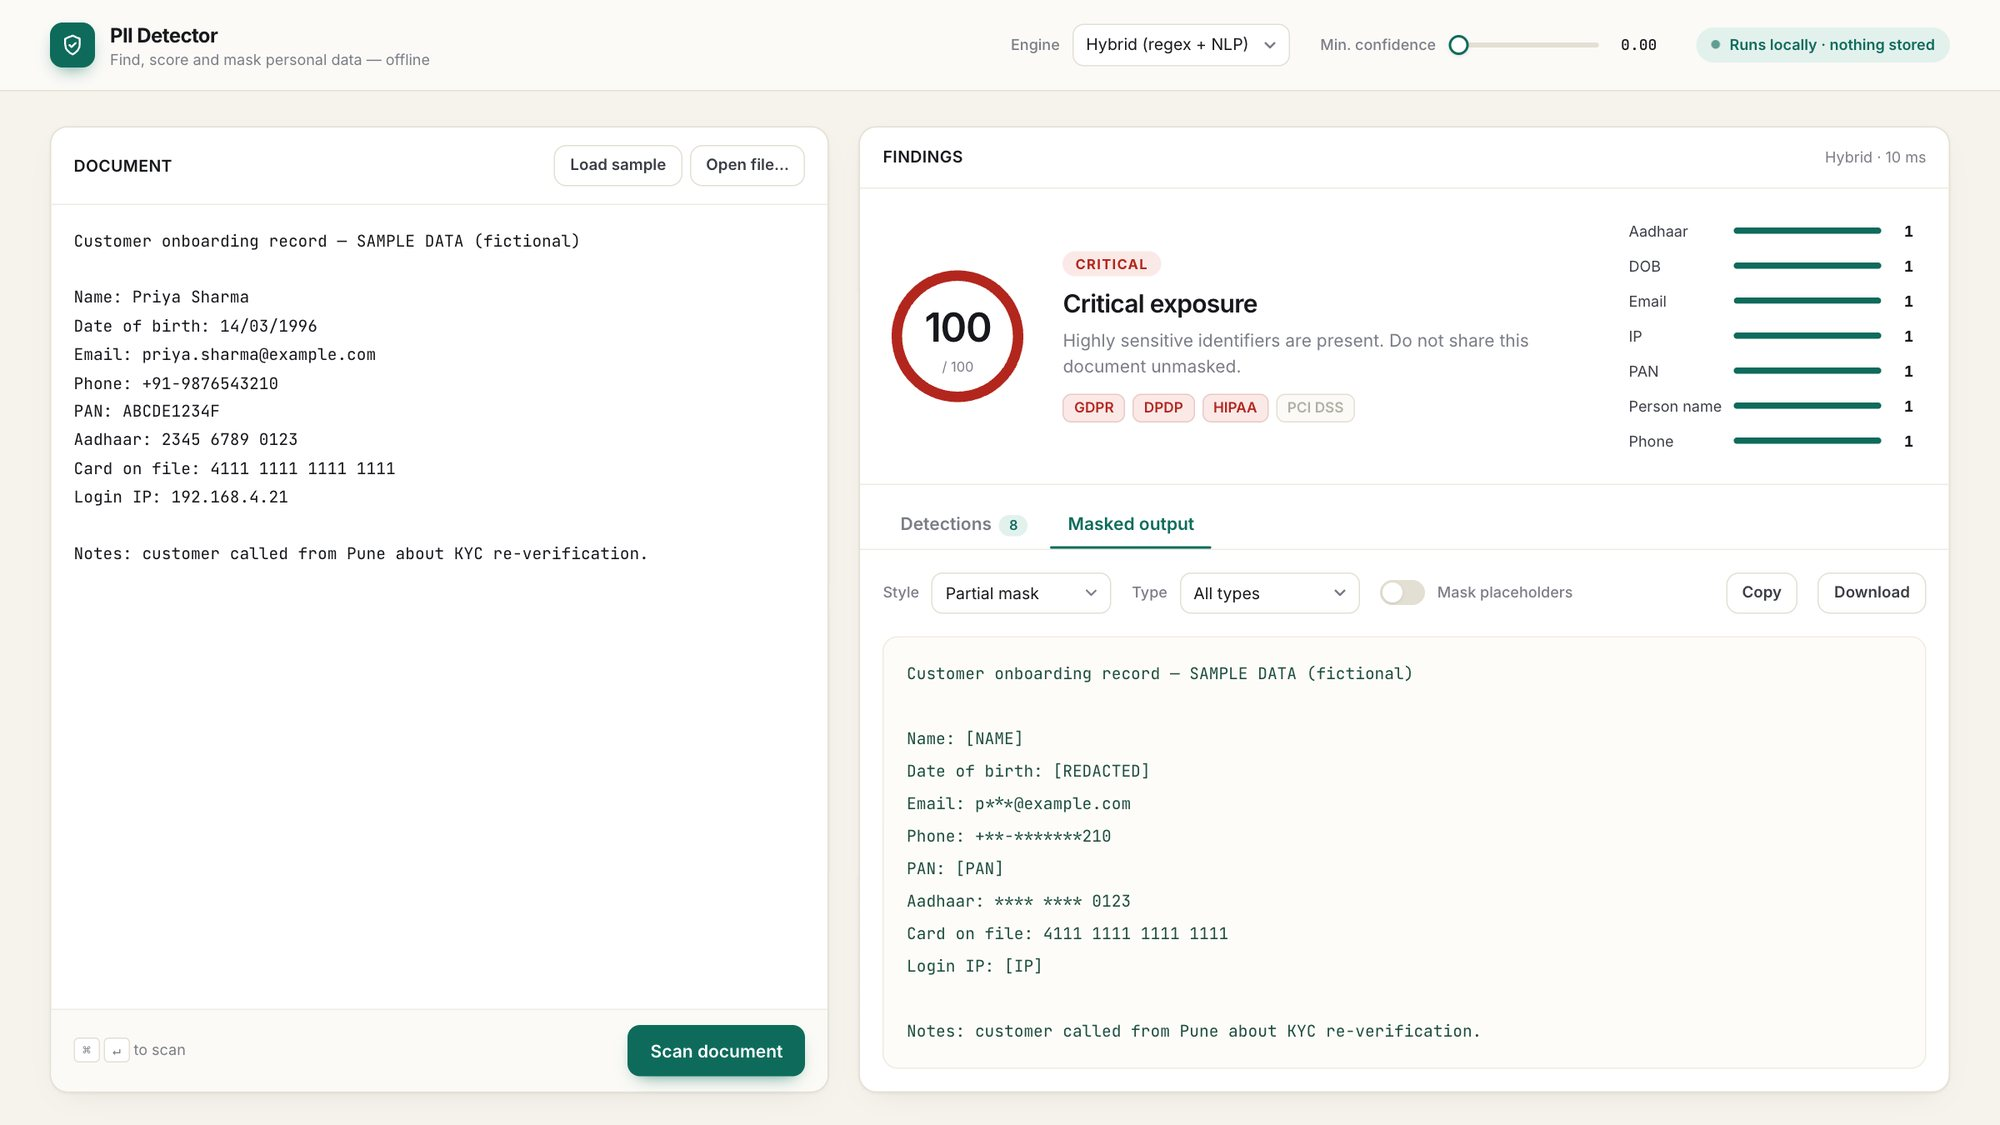
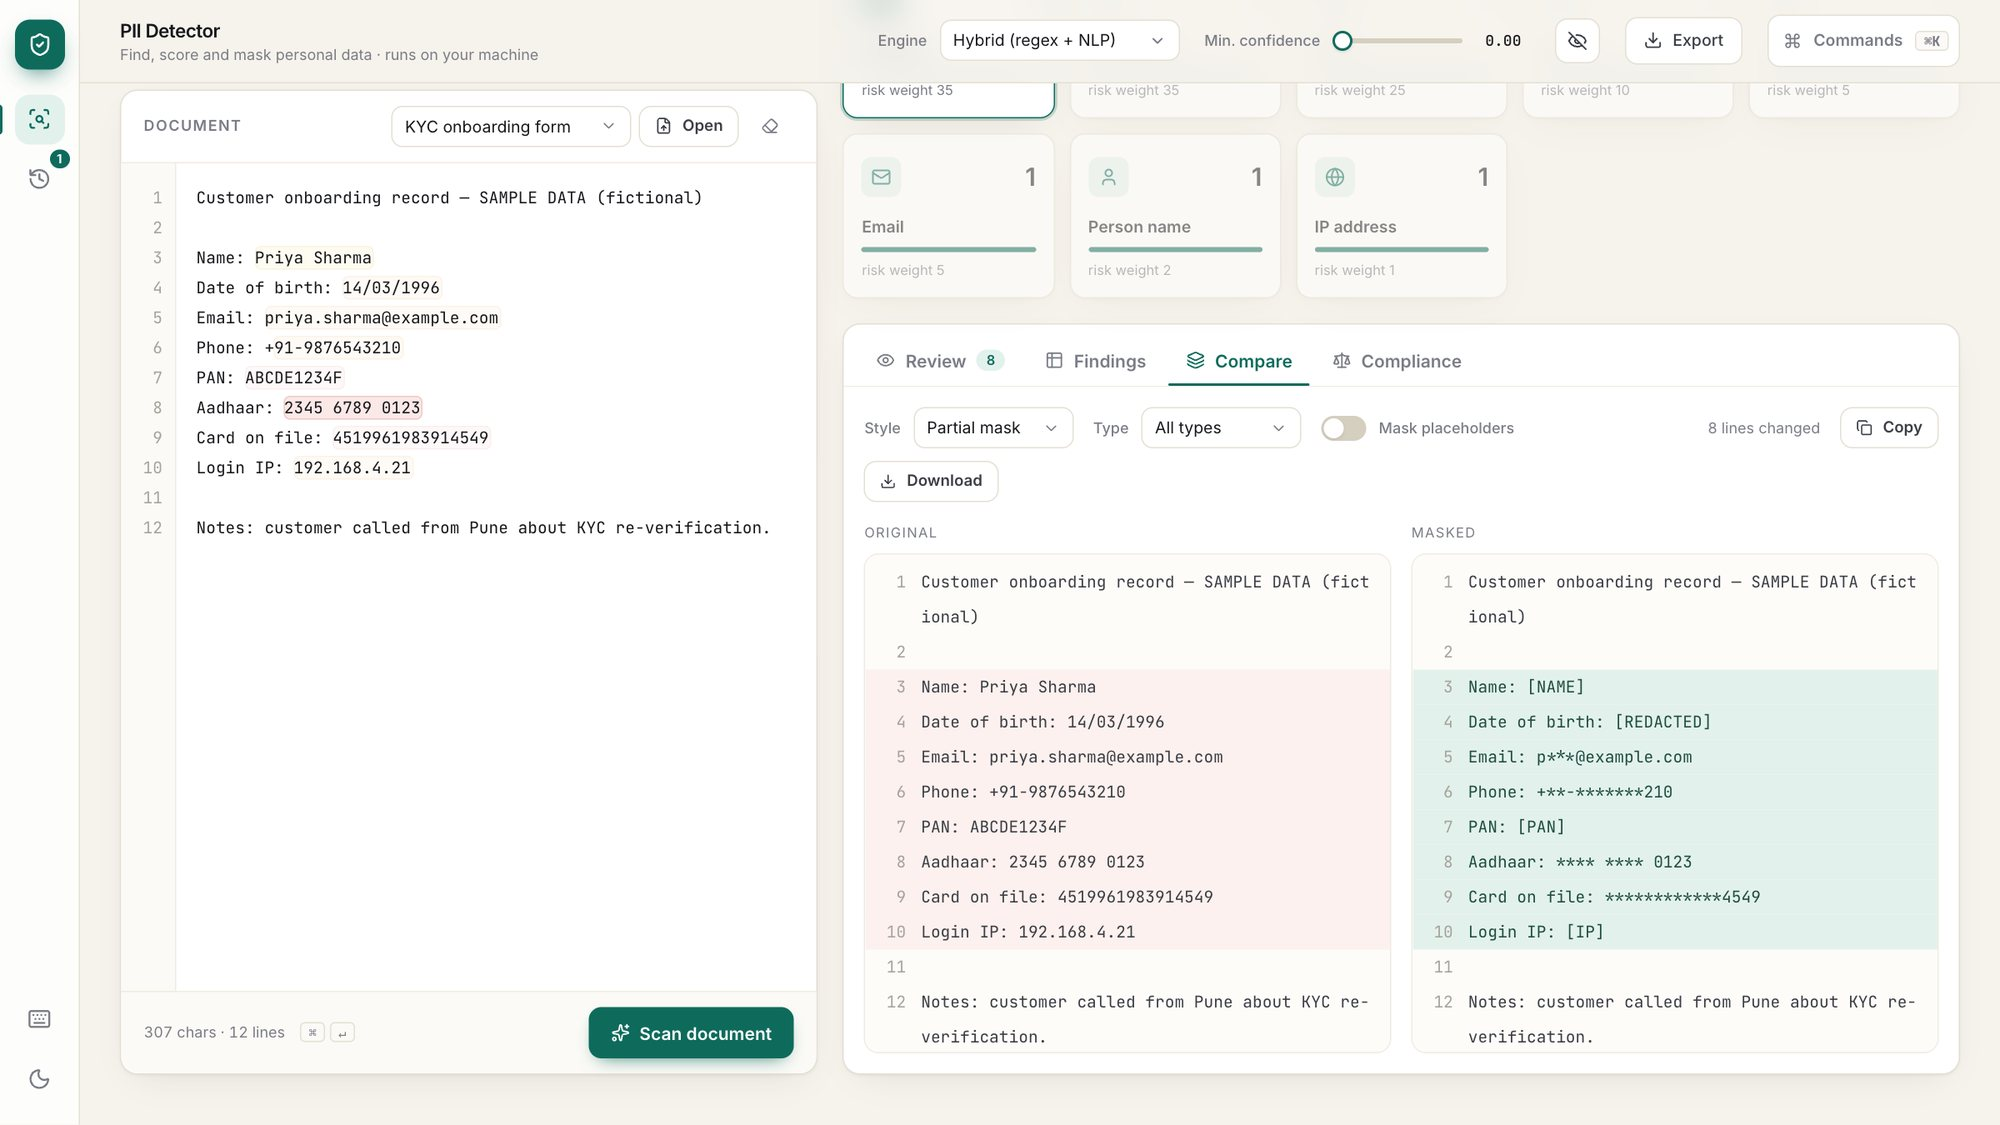
PII Detector case study: new workspace UI, card-detection fix

diff --git a/js/data.js b/js/data.js
@@ -314,9 +314,10 @@ window.PROJECTS = [
       "TYPESCRIPT",
       "VITE",
       "TAILWIND",
+      "BASE UI",
+      "MOTION",
       "SPACY NLP",
-      "REGEX",
-      "BATCH / CLI",
+      "REGEX + LUHN",
       "PYTEST"
     ],
     "links": [
@@ -343,28 +344,32 @@ window.PROJECTS = [
         "body": [
           "A hybrid detection pipeline: regex catches the structured identifiers reliably, and an optional spaCy NLP pass picks up names and entities that patterns miss. Results are scored so a reviewer can triage rather than read everything.",
           "Batch processing and a CLI make it usable over directories of files, and the detection logic is covered by tests — a pipeline that silently stops matching is worse than none.",
-          "The web app is a React and TypeScript frontend (Tailwind, Base UI, Motion) over the Flask JSON API: a risk gauge, in-place highlights you can filter by type, and masked output that updates as you change the style. It is bundled into Flask's static folder, so the app still runs offline with no Node at runtime."
+          "The web app is a React and TypeScript workspace (Tailwind, Base UI, Motion) over the Flask JSON API: findings highlight in place in the editor, a risk gauge breaks exposure down by sensitivity, an inspector explains each detection against GDPR, DPDP, HIPAA and PCI DSS, and a side-by-side view shows exactly which lines masking changes. There is a command palette, a privacy mode that blurs values, a dark theme, and exports that keep values redacted. It is bundled into Flask's static folder, so it still runs offline with no Node at runtime.",
+          "Building the interface surfaced a real detector bug: any 16-digit number matched a blanket 'placeholder' pattern, so genuine card numbers were silently dropped from the risk score. Card detection now accepts grouped numbers and requires a valid Luhn checksum, with well-known test cards still treated as placeholders, and the fix ships with regression tests."
         ]
       }
     ],
     "now": [
       "PDF / DOCX / CSV / XLSX / TXT",
-      "REGEX DETECTION",
-      "OPTIONAL SPACY PASS",
-      "RISK SCORING",
-      "AUTOMATED MASKING",
-      "BATCH + CLI PROCESSING"
+      "REGEX + OPTIONAL SPACY PASS",
+      "LUHN-VALIDATED CARDS",
+      "RISK SCORE + COMPLIANCE FLAGS",
+      "LIVE IN-PLACE HIGHLIGHTS",
+      "ENTITY INSPECTOR + MINIMAP",
+      "SIDE-BY-SIDE MASKING",
+      "COMMAND PALETTE",
+      "REDACTED EXPORTS"
     ],
     "gallery": [
       {
         "src": "assets/pii-scan.jpg",
-        "alt": "PII Detector: a sample document with names, dates, email, phone, PAN, Aadhaar and IP highlighted, a critical risk score of 100 and GDPR, DPDP and HIPAA flags",
-        "cap": "A scan of fictional sample data — every identifier highlighted, risk scored, compliance flagged"
+        "alt": "PII Detector workspace: editor with highlighted identifiers on the left; on the right a critical risk score of 100 with GDPR, DPDP, HIPAA and PCI DSS flags and cards per data type",
+        "cap": "The workspace after a scan of fictional sample data: highlights in the editor, risk score 100, regulation flags and per-type cards"
       },
       {
         "src": "assets/pii-masked.jpg",
-        "alt": "PII Detector: the masked output tab, with partial masking applied to the same document",
-        "cap": "The same document, masked"
+        "alt": "PII Detector compare view: original text and partially masked text side by side, with the changed lines highlighted",
+        "cap": "Compare: the original beside the masked copy, with changed lines marked"
       }
     ]
   },
